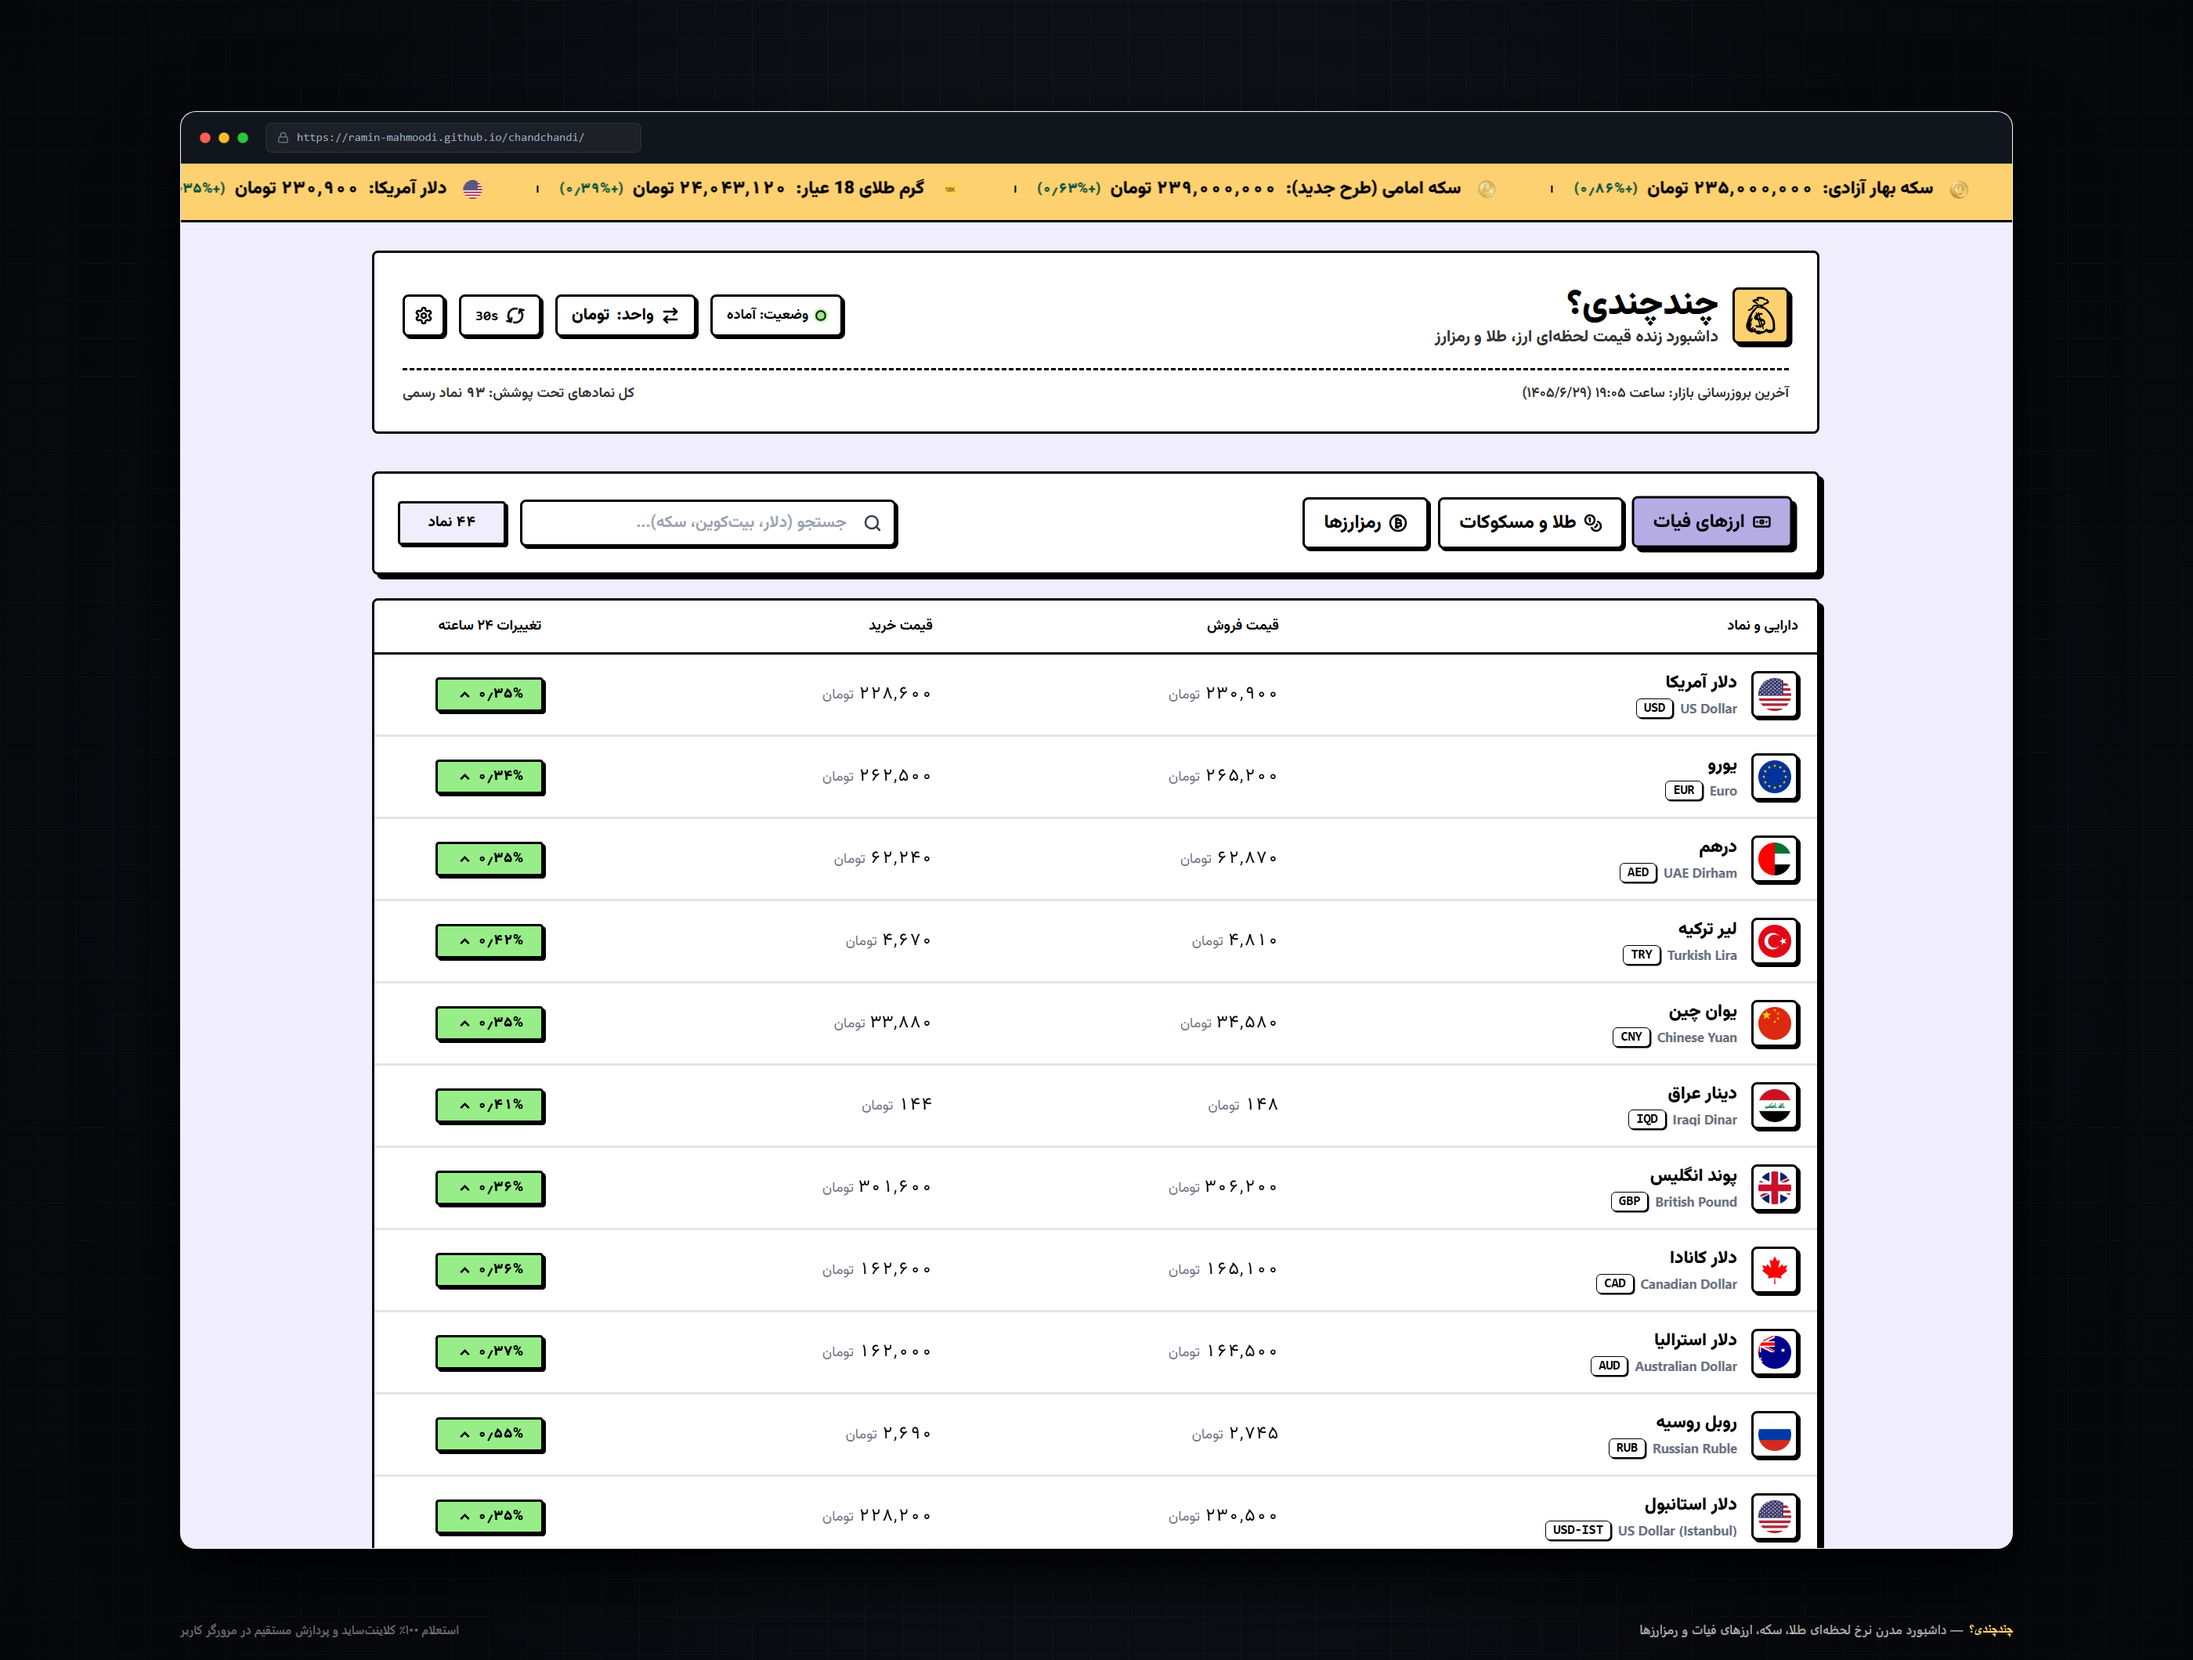
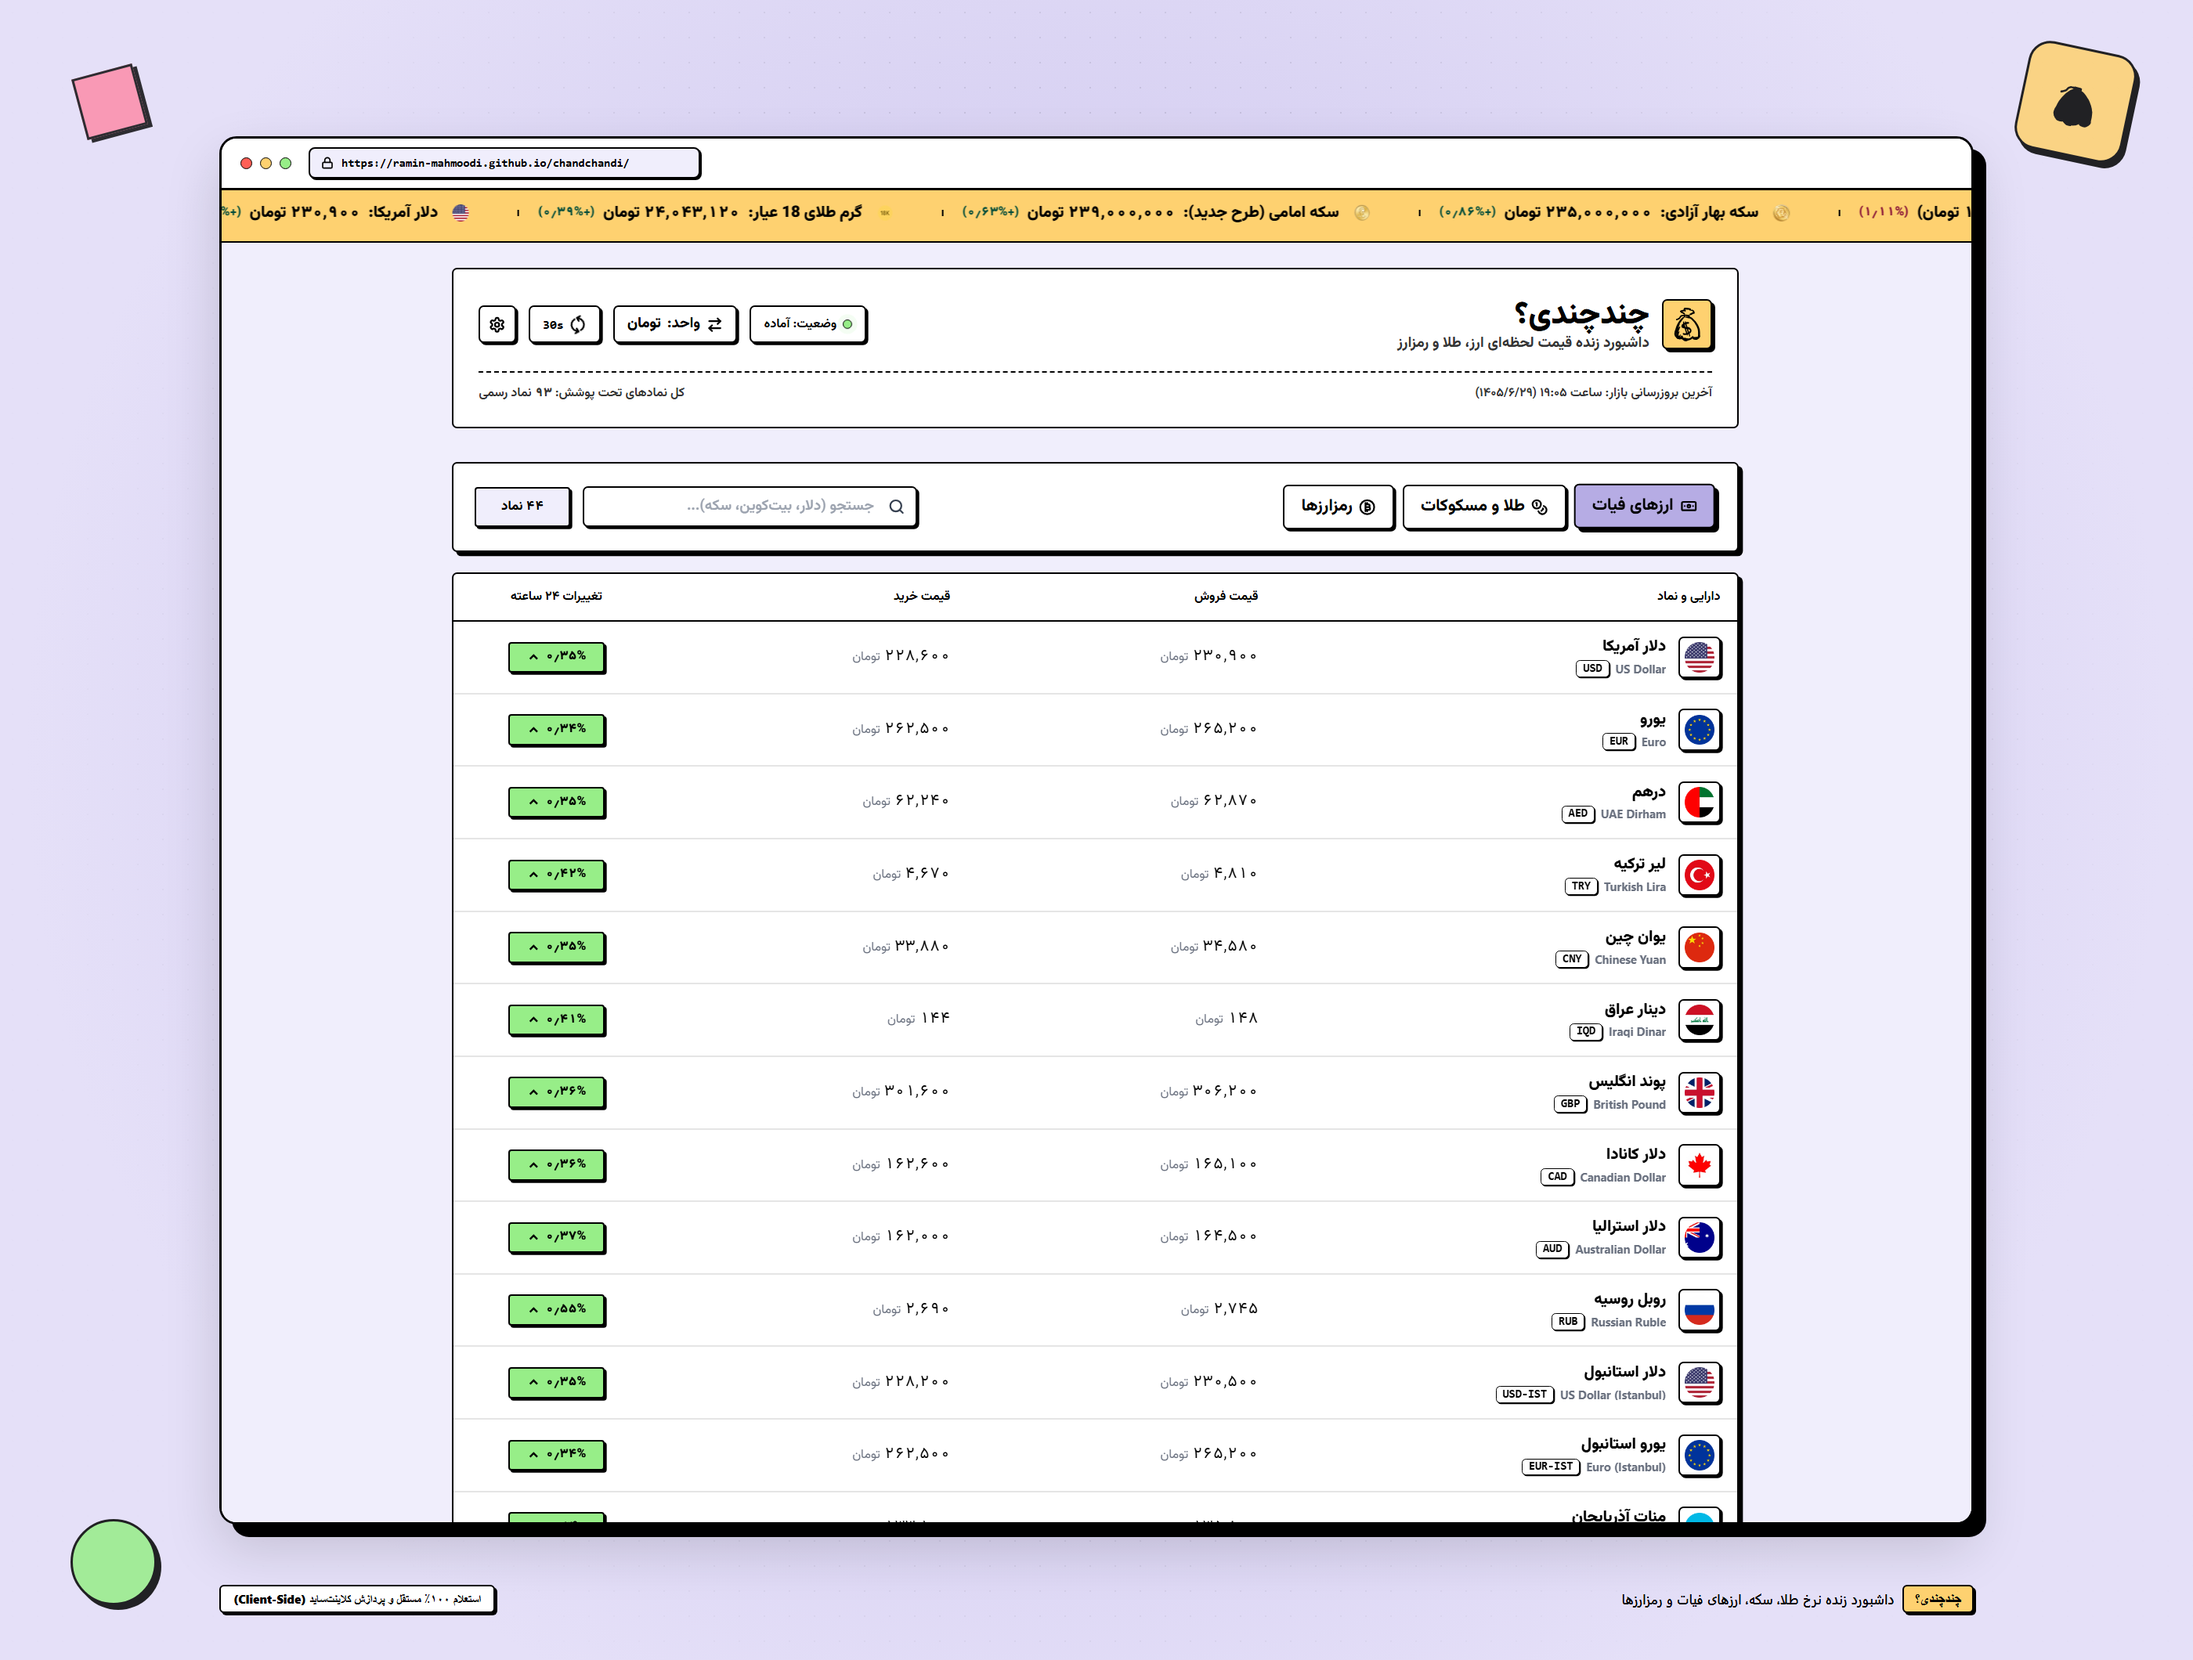
docs: restore light Neobrutalism studio background for README preview mockup

diff --git a/README.md b/README.md
@@ -6,7 +6,7 @@
 
 <br />
 
-<img src="assets/preview.png?v=3" alt="ChandChandi Preview" width="100%" />
+<img src="assets/preview.png?v=4" alt="ChandChandi Preview" width="100%" />
 
 </div>
 
